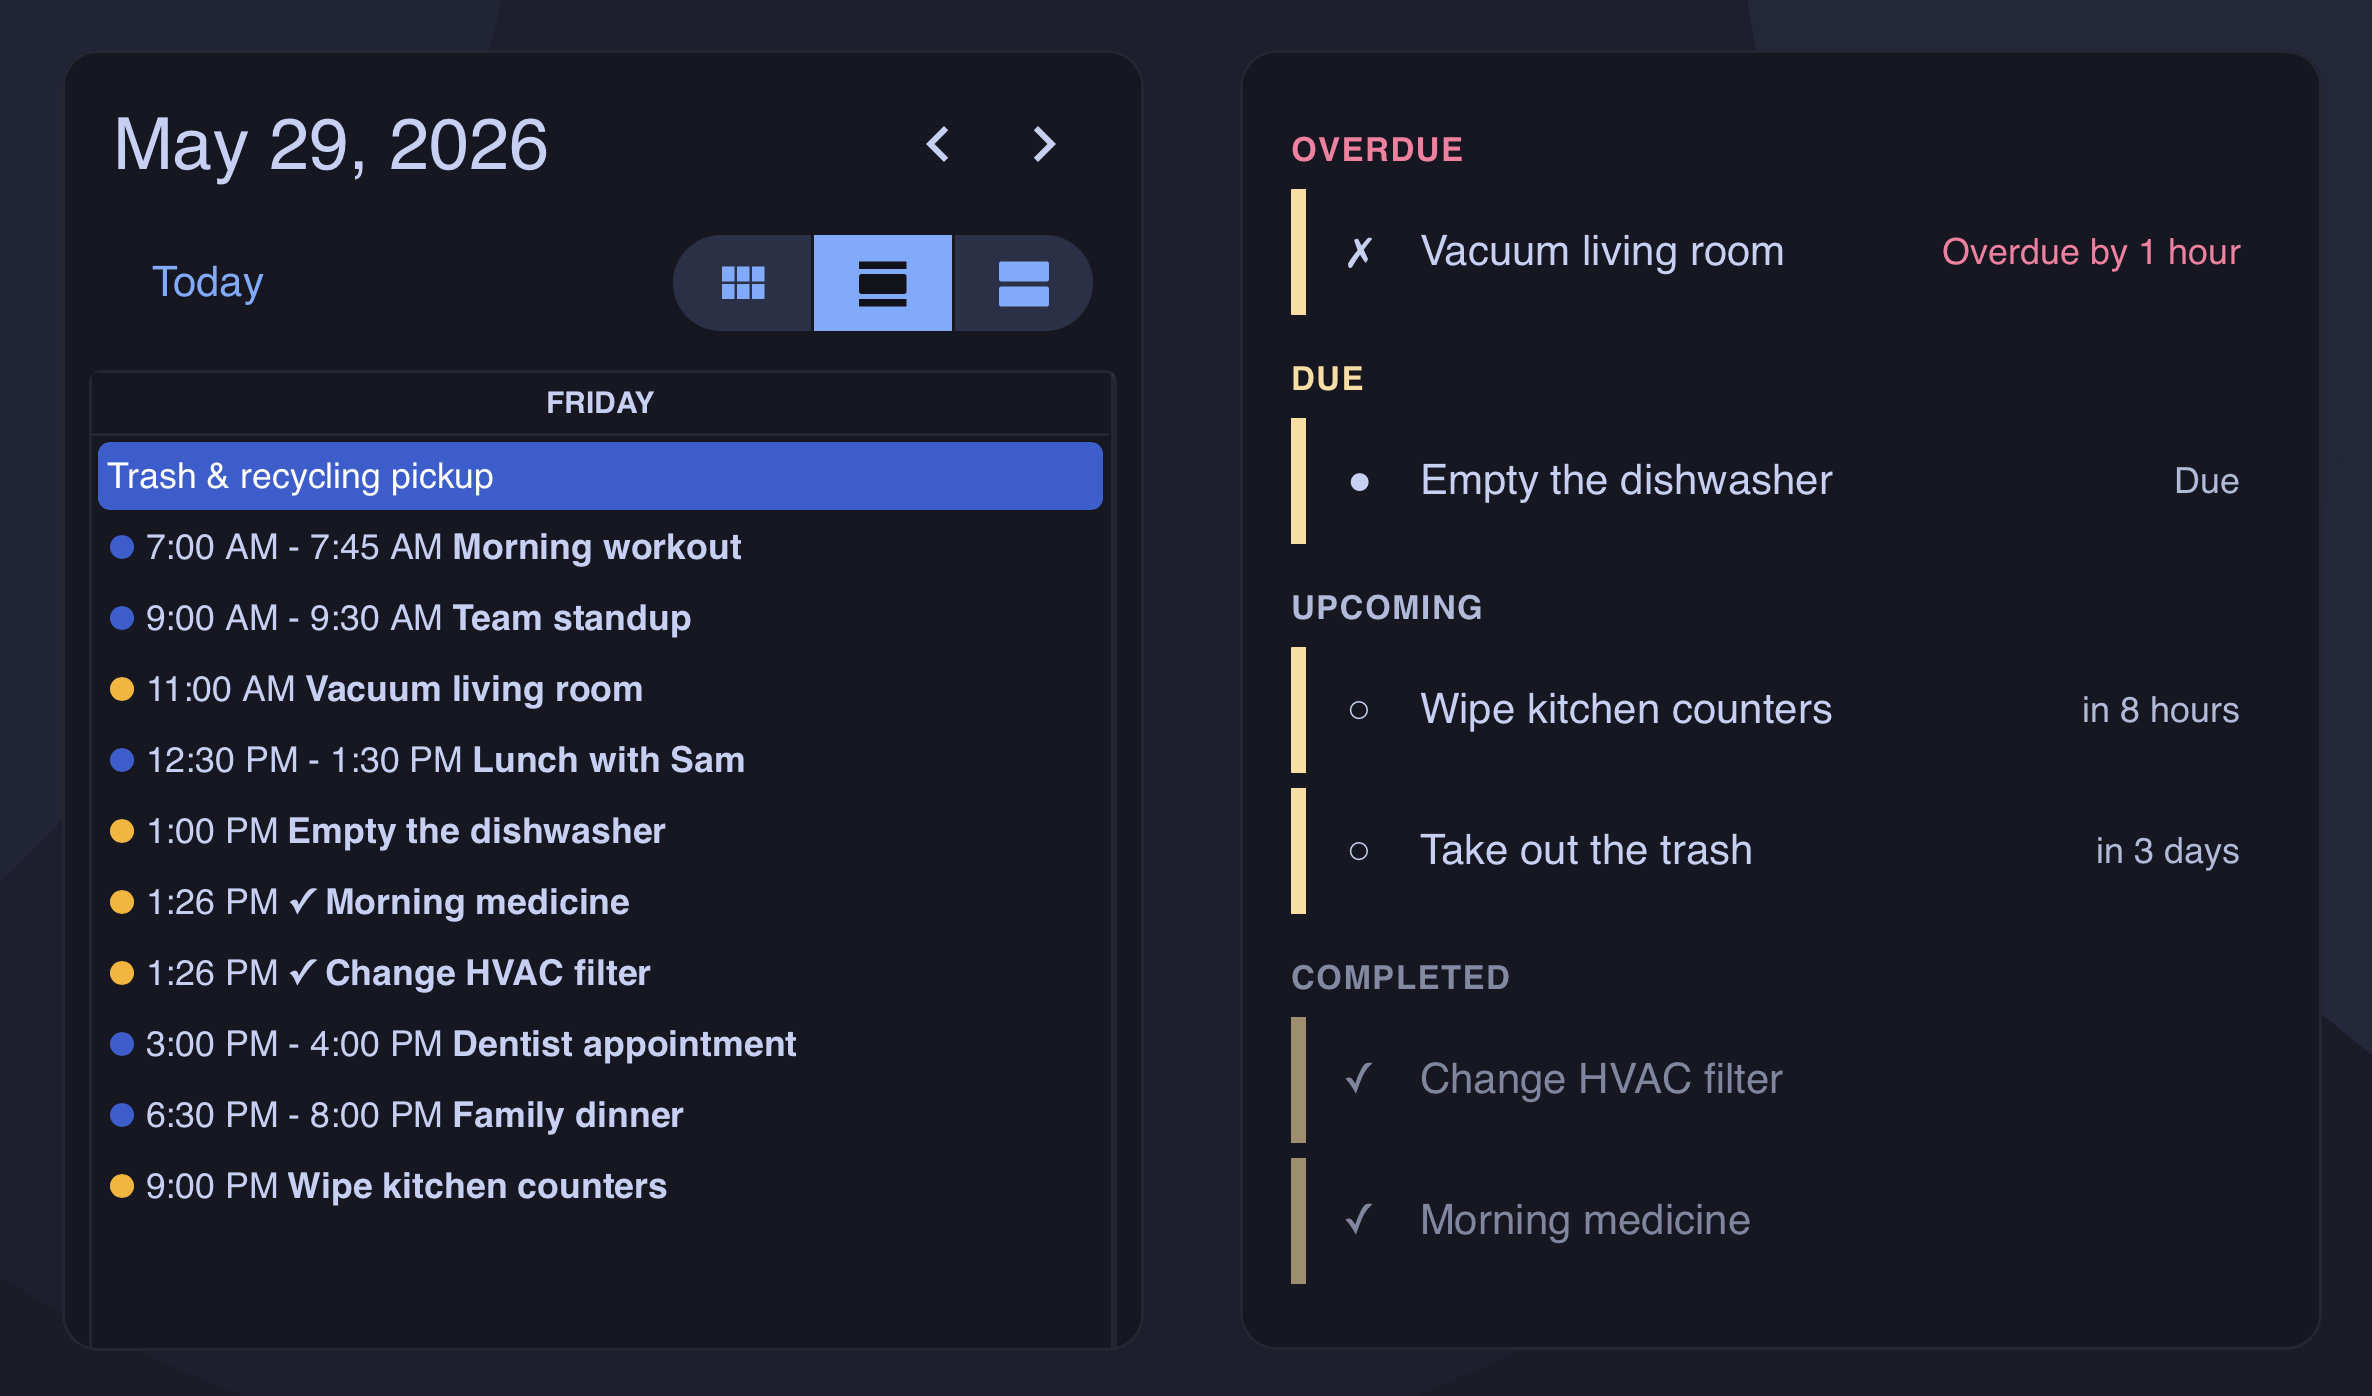
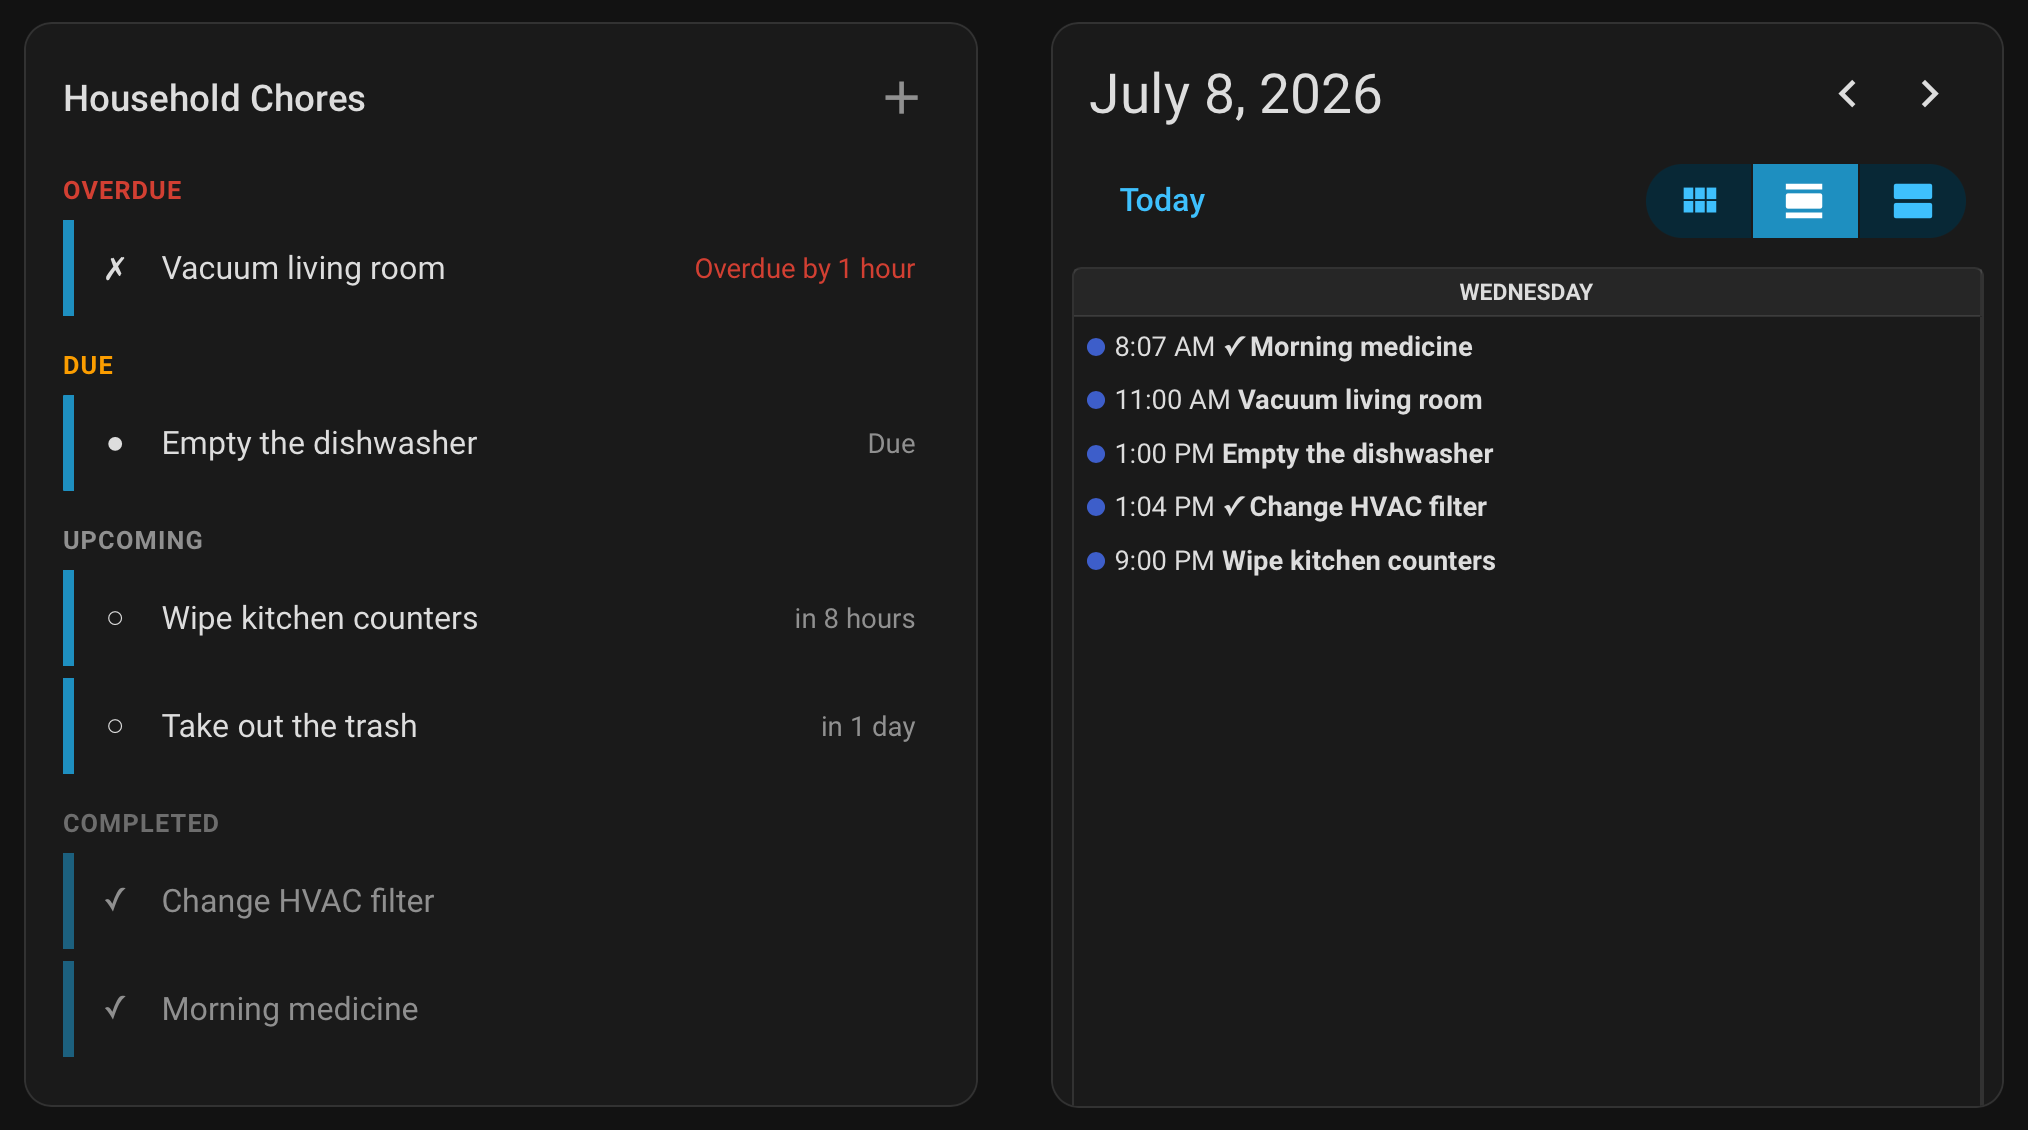
docs: minor README cleanup, updated images
- new image for edit dialog
- images use default dark theme
- improved some wording and doc flow, removed em-dash usage

diff --git a/README.md b/README.md
@@ -6,16 +6,16 @@ A Home Assistant custom integration for managing recurring household chores. Eac
 
 ## Features
 
-- **Service-driven management**: Create, update, delete, and complete chores via service calls
+- **Todo entity**: One todo list per chore list, surfacing chores through HA's native todo UI and Assist pipelines. Add one-off chores, edit, complete, and reschedule the current occurrence right from the native card
 - **Calendar entity**: Read-only calendar per list showing every upcoming occurrence and recently completed chores
-- **Todo entity**: One todo list per chore list, surfacing chores through HA's native todo UI and Assist pipelines — add one-off chores, complete, rename, edit descriptions, and reschedule the current occurrence right from the card
-- **Sensor entities**: One sensor per chore tracking its current status and attributes
+- **Sensor entities**: One sensor per chore tracking its current status and attributes, providing simple access for custom dashboards and automations
 - **Custom Lovelace card**: Built-in timeline card with per-entity filtering, colors, a detail dialog, create/edit/delete dialogs, and configurable actions
-- **Tag scan auto-completion**: Assign NFC tags to chores for tap-to-complete; shared tags automatically resolve to the correct chore based on completion windows
+- **Tag scan auto-completion**: Assign HA tags to chores for scan-to-complete; shared tags automatically resolve to the correct chore based on completion windows
+- **Service-driven management**: Create, update, delete, and complete chores via service calls
 - **Flexible scheduling**: Calendar-grid recurrence (daily/weekly/monthly/yearly with weekday ordinals, month days, season windows, and end conditions), interval-based ("after N hours/days/months"), and oneshot (one-time tasks with optional due date) chore types
 - **Skip occurrences**: Skip the current occurrence or defer until a later datetime, without touching completion history
 - **Status events**: Fires events on chore created, status change, and chore deleted for use in automations
-- **Persistent storage**: Chore data stored locally — no external API or cloud dependency
+- **Persistent storage**: Chore data stored locally, same as local calendar and local todo
 
 ## Quick Start
 
@@ -83,7 +83,7 @@ Chores are defined by a common four-status cycle, with different [chore types](#
 | `overdue` | The grace period has passed without completion |
 | `completed` | The chore has been completed for the current period |
 
-Newly created chores always start in `pending` and progress through the cycle from there. Once `overdue`, the chore stays pinned to its uncompleted period — the status or due date does not advance until the chore is completed.
+Newly created chores always start in `pending` and progress through the cycle from there. Once `overdue`, the chore stays pinned to its uncompleted period. The status or due date does not advance until the chore is completed.
 
 ### Common Options
 
@@ -100,7 +100,7 @@ These apply to all chore types:
 
 Duration values use the standard Home Assistant format: `hours: 3`, `days: 14`, `minutes: 30`, etc.
 
-Set `pending_period: 0` to skip the `pending` state entirely — the chore goes straight from `completed` to `due`. Useful for interval chores where an early window doesn't make sense (e.g. "every 90 days").
+Set `pending_period: 0` to skip the `pending` state entirely: the chore goes straight from `completed` to `due`. Useful for interval chores where an early window doesn't make sense (e.g. "every 90 days").
 
 A chore with no prior completion stays in `pending` until its first cycle becomes due. Once any completion is on record, the chore stays `completed` between cycles and only re-enters `pending` when its next `pending_at` arrives. For oneshot chores, `pending_period` also defines the minimum forward leap required to reactivate a completed chore via reschedule (a new `due_datetime` whose `pending_at` is at or before `last_completed` keeps the chore `completed`).
 
@@ -118,35 +118,35 @@ The chore sensor's state is the chore's current status. Additional attributes ar
 
 ### Chore Types
 
-Scheduled and interval chores follow the same recurrence model — the only difference is the **anchor** they recur from:
+Scheduled and interval chores follow the same recurrence model; the only difference is the **anchor** they recur from:
 
-- **Scheduled chores are anchored to the calendar grid.** They recur **every** N units on fixed dates, whether or not the chore is ever completed — so a brand-new one becomes `due` on its first occurrence even before it has ever been done.
-- **Interval chores are anchored to the last completion.** They recur **after** N units have elapsed since the chore was last done — so a brand-new one stays `pending` with no due date until its first completion starts the clock.
+- **Scheduled chores are anchored to the calendar grid.** They recur **every** N units on fixed dates, whether or not the chore is ever completed, so a brand-new one becomes `due` on its first occurrence even before it has ever been done.
+- **Interval chores are anchored to the last completion.** They recur **after** N units have elapsed since the chore was last done, so a brand-new one stays `pending` with no due date until its first completion starts the clock.
 
 For example: the trash goes out *every* Tuesday → scheduled; the water filter is replaced 90 days *after* the last change → interval.
 
 #### Scheduled Chores
 
-Recur on a fixed calendar grid — the same recurrence options as a calendar event's repeat rule.
+Recur on a fixed calendar grid (the same recurrence options as a calendar event's repeat rule).
 
 | Option | Required | Default | Description |
 | --- | --- | --- | --- |
-| `frequency` | yes | — | The recurrence unit — `daily`, `weekly`, `monthly`, or `yearly` |
+| `frequency` | yes | — | The recurrence unit: `daily`, `weekly`, `monthly`, or `yearly` |
 | `interval` | no | `1` | Recur **every** N units (`weekly` + `2` → every 2 weeks) |
 | `byday` | no | — | Days of the week (`mon`–`sun`). Monthly/yearly rules also accept an ordinal prefix (`-1fri` = last Friday) |
 | `bymonthday` | no | — | Days of the month (`15`, or `-1` for the last day). Monthly/yearly only |
 | `bysetpos` | no | — | Nth match of `byday` within the month (`-1` = last). Requires `byday`; monthly/yearly only |
-| `bymonth` | no | — | Season window — only grid occurrences in these months (1–12) are valid |
+| `bymonth` | no | — | Season window: only grid occurrences in these months (1–12) are valid |
 | `dtstart` | no | `08:00:00` | Time of day for every occurrence, or a full datetime to anchor the series phase when `interval` is above 1 |
 | `until` | no | — | The series ends after this date/datetime. Mutually exclusive with `count` |
-| `count` | no | — | Ends the series after this many **occurrences** — grid points, spent as the calendar advances (a skipped or missed occurrence still counts). Mutually exclusive with `until` |
+| `count` | no | — | Ends the series after this many **occurrences**: grid points, spent as the calendar advances (a skipped or missed occurrence still counts). Mutually exclusive with `until` |
 | `persist` | no | `false` | Keep the chore once the series ends; otherwise `hide_completed_items` deletes it |
 
 The rule is stored as an RFC 5545 RRULE, and the calendar entity shows every future occurrence in the queried window.
 
-A never-completed scheduled chore pins to the first occurrence at or after `created_at`. Creating a chore past today's occurrence pins to the next one (so the chore reads `pending`, never immediately `due`). If that first cycle is missed, the chore stays `overdue` until completed — it does not silently roll forward to a later period.
+A never-completed scheduled chore pins to the first occurrence at or after `created_at`. Creating a chore past today's occurrence pins to the next one (so the chore reads `pending`, never immediately `due`). If that first cycle is missed, the chore stays `overdue` until completed.
 
-With `until` or `count`, completing (or skipping past) the final occurrence ends the series: the chore reports `completed` permanently and is swept by the next `hide_completed_items` call unless `persist` is set. Uncompleting the final completion — or updating the recurrence — reopens it.
+With `until` or `count`, completing (or skipping past) the final occurrence ends the series: the chore reports `completed` permanently and is swept by the next `hide_completed_items` call unless `persist` is set. Uncompleting the final completion, or updating the recurrence, reopens it.
 
 #### Interval Chores
 
@@ -154,16 +154,16 @@ Recur a fixed period after the last completion.
 
 | Option | Required | Default | Description |
 | --- | --- | --- | --- |
-| `frequency` | yes | — | The recurrence unit — `minutely`, `hourly`, `daily`, `weekly`, `monthly`, or `yearly` |
+| `frequency` | yes | — | The recurrence unit: `minutely`, `hourly`, `daily`, `weekly`, `monthly`, or `yearly` |
 | `interval` | no | `1` | Recur **after** N units (`daily` + `5` → after 5 days; `monthly` + `3` → after 3 months) |
-| `bymonth` | no | — | Season window — the **after** clock only runs in these months; out-of-season time doesn't count |
+| `bymonth` | no | — | Season window: the **after** clock only runs in these months; out-of-season time doesn't count |
 | `until` | no | — | The series ends once the next due passes this. Mutually exclusive with `count` |
-| `count` | no | — | Ends the series after this many **occurrences** — and since an interval occurrence exists only once completed, this equals this many completions. Mutually exclusive with `until` |
+| `count` | no | — | Ends the series after this many **occurrences**. Since an interval occurrence exists only once completed, this equals this many completions. Mutually exclusive with `until` |
 | `persist` | no | `false` | Keep the chore once the series ends; otherwise `hide_completed_items` deletes it |
 
-Month and year intervals track the calendar — "after 3 months" from January 31 lands April 30, not 90 fixed days. With a season window, the interval clock only runs during the allowed months (a completion out of season starts the clock at the next season opening).
+Month and year intervals track the calendar ("after 3 months" from January 31 lands April 30, not 90 fixed days). With a season window, the interval clock only runs during the allowed months (a completion out of season starts the clock at the next season opening).
 
-A never-completed interval chore reports `pending` with no `next_due` until the first completion anchors the cycle. Tag-scan auto-completion still works in this state — the first scan establishes the cycle.
+A never-completed interval chore reports `pending` with no `next_due` until the first completion anchors the cycle.
 
 #### Oneshot Chores
 
@@ -177,7 +177,7 @@ Non-recurring tasks with an optional due datetime. Unlike scheduled and interval
 Behaviors specific to oneshot:
 
 - **Optional due date**: a oneshot created without `due_datetime` reports `pending` until a date is set or the chore is completed directly. Useful for ad-hoc todo-style items ("Buy milk") and "someday" tasks.
-- **Reschedule via update_item**: writing a new `due_datetime` to a completed oneshot reactivates it through the standard pending/due/overdue cycle. Closer values (within the pending window of `last_completed`) keep the chore completed — guards against accidental reactivation by past dates.
+- **Reschedule via update_item**: writing a new `due_datetime` to a completed oneshot reactivates it through the standard pending/due/overdue cycle. Closer values (within the pending window of `last_completed`) keep the chore completed. This guards against accidental reactivation by past dates.
 - **Skip default clears the date**: `skip_item` with no `until` on a oneshot clears `due_datetime` (the chore enters the unscheduled pending state). Use `update_item` to reschedule. `skip_item` with explicit `until` works the same as scheduled/interval.
 - **Cleanup behavior**: terminal-completed oneshots with `persist: false` are deleted on the next `hide_completed_items` call. Set `persist: true` for chores that recur irregularly via external scripts.
 
@@ -187,7 +187,7 @@ Assigning a `tag.*` entity to a chore enables NFC tap-to-complete. When the tag 
 
 If multiple chores share the same tag, only the chore whose completion window matches the scan time is completed.
 
-When a chore is created with a `trigger_entity`, the tag's last-scanned timestamp is used to seed `last_completed` — this allows migration from existing tag-based systems without losing the most recent completion. Note that the chore's initial status will reflect the seeded `last_completed` (typically `completed` for a recently-scanned tag), not the standard never-completed `pending`.
+When a chore is created with a `trigger_entity`, the tag's last-scanned timestamp is used to seed `last_completed`. This allows migration from existing tag-based systems without losing the most recent completion. Note that the chore's initial status will reflect the seeded `last_completed` (typically `completed` for a recently-scanned tag), not the standard never-completed `pending`.
 
 ## Services
 
@@ -279,9 +279,9 @@ data:
   completed_by: person.alice
 ```
 
-`completed_at` takes a datetime — enter it directly in YAML or use the picker in Developer Tools. Defaults to now when omitted.
+`completed_at` takes a datetime. Enter it directly in YAML or use the picker in Developer Tools. Defaults to now when omitted.
 
-Completing a chore clears any active skip by default. Pass `keep_skip: true` to preserve the skip — useful when you complete early but still want the deferral to hold until the originally scheduled `skipped_until`.
+Completing a chore clears any active skip by default. Pass `keep_skip: true` to preserve the skip. This is useful when you complete early but still want the deferral to hold until the originally scheduled `skipped_until`.
 
 ```yaml
 action: chore_calendar.complete_item
@@ -292,7 +292,7 @@ data:
 
 ### Skip a Chore
 
-Defer a chore without recording a completion. `last_completed` is untouched — skipping does not count as doing the chore. While a skip is in force, the chore's status reports as `completed` and `next_due` becomes the deferred datetime; the normal state machine (pending window, grace period) runs around it.
+Defer a chore without recording a completion. `last_completed` is untouched; skipping does not count as doing the chore. While a skip is in force, the chore's status reports as `completed` and `next_due` becomes the deferred datetime; the normal state machine (pending window, grace period) runs around it.
 
 Provide `until` to pick the exact resume datetime, or omit it to use the type-specific default:
 
@@ -314,15 +314,15 @@ data:
   until: "2026-04-28 09:00:00"
 ```
 
-`until` takes a datetime — enter it directly in YAML or use the picker in Developer Tools — and works in both directions: a value *earlier* than the natural due pulls the occurrence forward ("do it tomorrow instead of Monday"), and re-skipping with a new value moves an existing skip. Skipping a chore whose `until`/`count` series has ended raises an error, and skipping past the final occurrence ends the series.
+`until` takes a datetime (enter it directly in YAML or use the picker in Developer Tools) and works in both directions: a value *earlier* than the natural due pulls the occurrence forward ("do it tomorrow instead of Monday"), and re-skipping with a new value moves an existing skip. Skipping a chore whose `until`/`count` series has ended raises an error, and skipping past the final occurrence ends the series.
 
 To undo a skip, re-skip with a new `until`, or clear the item's due date from the [native todo card](#native-todo-card) to drop the override entirely and return to the normal schedule.
 
-Completing a skipped chore clears the skip, so the completion counts for the current cycle (unless `keep_skip: true`). Uncompleting that completion restores the prior skip state — the undo is symmetric with `last_completed`.
+Completing a skipped chore clears the skip, so the completion counts for the current cycle (unless `keep_skip: true`). Uncompleting that completion restores the prior skip state (the undo is symmetric with `last_completed`).
 
 ### Uncomplete a Chore
 
-Revert the most recent completion — useful when a chore was marked complete by mistake (e.g. an accidental NFC tap). Uncomplete is a one-level undo: it restores the previous `last_completed` and `last_completed_by` (or clears them when undoing the first-ever completion). Attempting to uncomplete a chore that has never been completed raises an error.
+Revert the most recent completion, useful when a chore was marked complete by mistake (e.g. an accidental NFC tap). Uncomplete is a one-level undo: it restores the previous `last_completed` and `last_completed_by` (or clears them when undoing the first-ever completion). Attempting to uncomplete a chore that has never been completed raises an error.
 
 ```yaml
 # By sensor entity (chore inferred)
@@ -341,7 +341,7 @@ The resulting `chore_calendar_status_changed` event carries `source: uncomplete`
 
 ### Hide Completed Items
 
-Set a per-list cutoff for hiding completed items from the calendar and todo entities. Items completed *before* the cutoff are hidden but their `last_completed` timestamps are preserved (recurring chores still compute state correctly; the next cycle reappears naturally). Finished chores without `persist` — completed oneshots, and recurring chores whose `until`/`count` series has ended — are deleted from storage during this call, firing `chore_calendar_item_deleted` for each.
+Set a per-list cutoff for hiding completed items from the calendar and todo entities. Items completed *before* the cutoff are hidden but their `last_completed` timestamps are preserved (recurring chores still compute state correctly; the next cycle reappears naturally). Finished chores without `persist` (completed oneshots, and recurring chores whose `until`/`count` series has ended) are deleted from storage during this call, firing `chore_calendar_item_deleted` for each.
 
 ```yaml
 # Hide all completed items as of now
@@ -376,7 +376,7 @@ data:
     dtstart: "07:30:00"
 ```
 
-Passing any recurrence field (`frequency`, `byday`, `until`, …) replaces the repeat rule, with `frequency` required; `dtstart` and `persist` alone tweak the start time or lifecycle while keeping the stored rule — as above. Updating the recurrence also reopens a chore whose `until`/`count` series had ended.
+Passing any recurrence field (`frequency`, `byday`, `until`, …) replaces the repeat rule, with `frequency` required; `dtstart` and `persist` alone tweak the start time or lifecycle while keeping the stored rule, as above. Updating the recurrence also reopens a chore whose `until`/`count` series had ended.
 
 #### Convert Between Chore Types
 
@@ -391,7 +391,7 @@ data:
     due_datetime: "2026-05-01T09:00:00-04:00"
 ```
 
-Conversion preserves the chore's identity (`uid`), name, description, tag trigger, assignees, and pending/grace windows. It rebuilds the schedule from the new selector and starts a **fresh cycle** — completion history (`last_completed`, completion count) and any active skip are cleared, since neither carries meaning across schedule types (an interval chore, for example, anchors its next due on the last completion, so a stale timestamp would read as immediately overdue). Only one type sub-dict may be passed per call, and converting **to** a oneshot requires a `due_datetime` key (it may be `null` for an unscheduled oneshot).
+Conversion preserves the chore's identity (`uid`), name, description, tag trigger, assignees, and pending/grace windows. It rebuilds the schedule from the new selector and starts a **fresh cycle**: completion history (`last_completed`, completion count) and any active skip are cleared, since neither carries meaning across schedule types (an interval chore, for example, anchors its next due on the last completion, so a stale timestamp would read as immediately overdue). Only one type sub-dict may be passed per call, and converting **to** a oneshot requires a `due_datetime` key (it may be `null` for an unscheduled oneshot).
 
 ### Delete a Chore
 
@@ -416,9 +416,9 @@ response_variable: result
 
 ## Dashboard Card
 
-A custom Lovelace card is included and auto-registered — no manual resource setup needed. Add it to a dashboard via the UI card picker or YAML.
+A custom Lovelace card is included and auto-registered (no manual resource setup needed). Add it to a dashboard via the UI card picker or YAML.
 
-<img src="docs/images/chore_calendar.png" alt="The Chore Calendar card with Overdue, Due, Upcoming, and Completed sections." width="480">
+<img src="docs/images/card.png" alt="The Chore Calendar card with Overdue, Due, Upcoming, and Completed sections." width="480">
 
 ### Minimal Configuration
 
@@ -437,8 +437,8 @@ entities:
 | `entities[].exclude` | `[]` | Statuses to hide for this entity: `overdue`, `due`, `pending`, `completed` |
 | `title` | none | Card title text |
 | `hide_completed` | `false` | Hide the completed section entirely |
-| `due_date_period` | none | Duration dict — hide `pending` chores whose `next_due` is further in the future than this. Overdue and due chores are always shown. |
-| `completed_period` | none | Duration dict — hide `completed` chores whose `last_completed` is further in the past than this. |
+| `due_date_period` | none | Duration dict: hide `pending` chores whose `next_due` is further in the future than this. Overdue and due chores are always shown. |
+| `completed_period` | none | Duration dict: hide `completed` chores whose `last_completed` is further in the past than this. |
 | `hide_section_headers` | `false` | Hide section headings (Overdue, Due, Upcoming, Completed) |
 | `hide_card_background` | `false` | Hide the card background (transparent) |
 | `allow_uncomplete` | `false` | Show an "Uncomplete" button on completed rows in the detail dialog |
@@ -496,7 +496,7 @@ Chore rows support configurable tap, hold, and double-tap actions:
 | `call-service` | Call an arbitrary HA service |
 | `none` | Do nothing (default for hold and double-tap) |
 
-Example — tap to complete, hold for details:
+Example (tap to complete, hold for details):
 
 ```yaml
 type: custom:chore-calendar-card
@@ -510,7 +510,7 @@ hold_action:
 
 ### Detail Dialog
 
-<img src="docs/images/detail.png" alt="The chore detail dialog overlaying the card, showing the list, schedule, assignee, and Skip/Complete buttons." width="480">
+<img src="docs/images/card_detail.png" alt="The chore detail dialog, showing the list, schedule, assignee, and Edit/Skip/Complete buttons." width="480">
 
 Tapping a chore row (default behavior) opens a detail dialog showing:
 
@@ -521,14 +521,16 @@ Tapping a chore row (default behavior) opens a detail dialog showing:
 - Last completed time and by whom (if set)
 - The chore's free-text description (if set)
 
-An "Edit" button in the dialog footer opens the create/edit dialog for the chore (hidden when `hide_edit_button` is set). For non-completed chores, "Skip" and "Complete" buttons also appear. Skip defers the chore using the type-specific default (see [Skip a Chore](#skip-a-chore)); Complete records the completion and clears any active skip. For completed chores, an "Uncomplete" button is shown when `allow_uncomplete` is enabled — uncomplete restores the skip that was cleared by the completion.
+An "Edit" button in the dialog footer opens the create/edit dialog for the chore (hidden when `hide_edit_button` is set). For non-completed chores, "Skip" and "Complete" buttons also appear. Skip defers the chore using the type-specific default (see [Skip a Chore](#skip-a-chore)); Complete records the completion and clears any active skip. For completed chores, an "Uncomplete" button is shown when `allow_uncomplete` is enabled. Uncompleting restores the skip that was cleared by the completion.
 
 ### Creating & Editing Chores
 
-The card manages chore definitions directly — no service calls required for everyday changes.
+<img src="docs/images/card_edit.png" alt="The chore edit dialog, showing the edit options for a scheduled chore." width="480">
+
+The card manages chore definitions directly (no service calls required for everyday changes).
 
 - **Create**: the header "+" button opens a dialog to add a chore (hidden when `hide_add_button` is set).
-- **Edit**: the detail dialog's "Edit" button — or an `edit` [row action](#action-configuration) — opens the same form pre-filled for the chore.
+- **Edit**: the detail dialog's "Edit" button (or an `edit` [row action](#action-configuration)) opens the same form pre-filled for the chore.
 - **Delete**: the edit dialog has a "Delete" button with an inline confirmation step.
 
 The form covers the common fields plus a **Type** toggle (Scheduled / Interval / Oneshot) that drives per-type recurrence inputs mirroring HA's calendar repeat editor: frequency, an interval with a dynamic unit, weekday toggles, a computed monthly mode (day-of-month vs Nth weekday) derived from the Start date, a Start date/time, the interval season window, the oneshot due date, and the `until` / `count` lifecycle with a persist toggle. Pending/grace periods, the tag trigger, assignees, and a target-list dropdown (shown only when more than one list is configured) round it out.
@@ -537,7 +539,7 @@ Changing the Type toggle on an existing chore converts it on save, backed by the
 
 ### Visual Editor
 
-All options are configurable through the visual editor — no YAML required. Each entity is shown as a collapsible panel (collapsed: entity name with color dot; expanded: entity picker, color picker, exclude statuses multi-select, and remove button). Card-level options include toggle switches, number inputs, and action type dropdowns.
+All options are configurable through the visual editor (no YAML required). Each entity is shown as a collapsible panel (collapsed: entity name with color dot; expanded: entity picker, color picker, exclude statuses multi-select, and remove button). Card-level options include toggle switches, number inputs, and action type dropdowns.
 
 ### Native Todo Card
 
@@ -548,14 +550,14 @@ type: todo-list
 entity: todo.daily_chores
 ```
 
-The default tap action (`edit`) opens HA's item editor, where you can rename a chore, edit its description, and change its due date; set `item_tap_action: toggle` if you'd rather have tapping toggle completion directly. Due edits reschedule the **current occurrence only** — never the recurrence:
+The default tap action (`edit`) opens HA's item editor, where you can rename a chore, edit its description, and change its due date; set `item_tap_action: toggle` if you'd rather have tapping toggle completion directly. Due edits reschedule the **current occurrence only**, never the recurrence:
 
 - **One-shot chores**: the due date is edited directly; clearing it leaves the chore unscheduled, and setting a date on a completed one-shot reopens it.
-- **Scheduled / interval chores**: a changed due date acts like [`skip_item`](#skip-a-chore) with an explicit `until` — later defers the occurrence, earlier pulls it forward. A skipped chore shows in the completed section with its deferred date as the due; clearing that due date undoes the skip and returns the chore to its normal schedule. Clearing the due of a chore with no skip in force is rejected (the due comes from the schedule).
+- **Scheduled / interval chores**: a changed due date acts like [`skip_item`](#skip-a-chore) with an explicit `until`: later defers the occurrence, earlier pulls it forward. A skipped chore shows in the completed section with its deferred date as the due; clearing that due date undoes the skip and returns the chore to its normal schedule. Clearing the due of a chore with no skip in force is rejected (the due comes from the schedule).
 
-Adding an item (from the card or `todo.add_item`) creates a **one-shot chore** — quick capture for one-offs like "Buy milk", with optional due date and description. It behaves like any other one-shot: complete it, reschedule it, or convert it to a recurring chore later via [`chore_calendar.update_item`](#update-a-chore). Once completed, it is cleaned up by the next [`hide_completed_items`](#hide-completed-items) call. Recurring chores are created via the [services](#services) or the chore card.
+Adding an item (from the card or `todo.add_item`) creates a **one-shot chore**: quick capture for one-offs like "Buy milk", with optional due date and description. It behaves like any other one-shot: complete it, reschedule it, or convert it to a recurring chore later via [`chore_calendar.update_item`](#update-a-chore). Once completed, it is cleaned up by the next [`hide_completed_items`](#hide-completed-items) call. Recurring chores are created via the [services](#services) or the chore card.
 
-To change a chore's recurrence, use [`chore_calendar.update_item`](#update-a-chore) or the chore card's edit dialog. Deleting items from the todo card is not supported — use the services or the chore card.
+To change a chore's recurrence, use [`chore_calendar.update_item`](#update-a-chore) or the chore card's edit dialog. Deleting items from the todo card is not supported; use the services or the chore card.
 
 ## Automation Events
 
@@ -578,7 +580,7 @@ data:
 
 | `source`     | When fired                                                                                  |
 |--------------|---------------------------------------------------------------------------------------------|
-| `schedule`   | Coordinator tick crossed a threshold (default — natural progression).                       |
+| `schedule`   | Coordinator tick crossed a threshold (default: natural progression).                        |
 | `complete`   | `complete_item` service or todo entity `needs_action → completed` toggle.                   |
 | `uncomplete` | `uncomplete_item` service or todo entity `completed → needs_action` toggle.                 |
 | `skip`       | `skip_item` service.                                                                        |